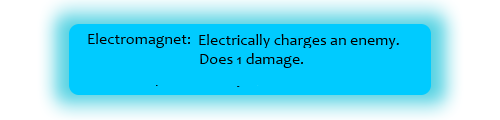
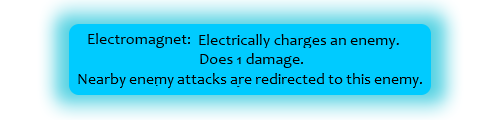
Changed the Boss' tint rule so that she would continue to be blue after being affected by a tint-changing move. Edited the electromagnetism description. Commented out a number of console log messages.

Changed region(s): [[0.15, 0.6, 0.84, 0.725]]

diff --git a/Game/js/local/momGame.js b/Game/js/local/momGame.js
@@ -279,7 +279,7 @@ momGame.prototype = {
       if (game.is_restoring) {
         var prevUses = game.player.spell_1_usage;
         game.player.spell_1_usage++;
-        console.log("Added an extra use to the Z attack (" + prevUses + " -> " + game.player.spell_1_usage + ")");
+        //console.log("Added an extra use to the Z attack (" + prevUses + " -> " + game.player.spell_1_usage + ")");
         game.is_restoring = false;
         pauseGame(false);
         spellRestorePopup.visible = false;
@@ -294,7 +294,7 @@ momGame.prototype = {
       if(game.is_restoring) {
           var prevUses = game.player.spell_3_usage
           game.player.spell_3_usage++;
-          console.log("Added an extra use to the C attack (" + prevUses + " -> " + game.player.spell_3_usage + ")");
+          //console.log("Added an extra use to the C attack (" + prevUses + " -> " + game.player.spell_3_usage + ")");
           game.is_restoring = false;
           pauseGame(false);
           spellRestorePopup.visible = false;
@@ -309,7 +309,7 @@ momGame.prototype = {
       if(game.is_restoring) {
           var prevUses = game.player.spell_2_usage;
           game.player.spell_2_usage++;
-          console.log("Added an extra use to the X attack (" + prevUses + " -> " + game.player.spell_2_usage + ")");
+          //console.log("Added an extra use to the X attack (" + prevUses + " -> " + game.player.spell_2_usage + ")");
           game.is_restoring = false;
           pauseGame(false);
           spellRestorePopup.visible = false;
@@ -322,7 +322,7 @@ momGame.prototype = {
 
     use_orange.onDown.add(function() {
       if(game.is_restoring) {
-        console.log("Canceled spell restore");
+        //console.log("Canceled spell restore");
         game.is_restoring = false;
         pauseGame(false);
         spellRestorePopup.visible = false;
@@ -330,7 +330,7 @@ momGame.prototype = {
       }
       oranges_usable = oranges_count >= 10;
       if(!oranges_usable) {
-        console.log("Not enough oranges (count: " + oranges_count + ")");
+        //console.log("Not enough oranges (count: " + oranges_count + ")");
         //TODO: Show a pop up of some sort
         return;
       }
@@ -428,7 +428,7 @@ momGame.prototype = {
   },
 
   collectHearts: function(player, healthHeart) {
-    console.log("yes yes yes yes!");
+    //console.log("yes yes yes yes!");
     healthHeart.kill();
     game.player.heal();   
   },

diff --git a/Game/js/local/Boss.js b/Game/js/local/Boss.js
@@ -19,6 +19,9 @@ Boss.prototype.constructor = Boss;
 
 _.extend(Boss.prototype, {
   update : function () {
+    if (this.canAttack && !this.backwards) {
+      this.tint = 0x0000ff;
+    }
 
     if (game.is_paused == false) {
       game.physics.arcade.collide(this, game.playerProjectiles, this.damage, null, this);
@@ -195,7 +198,7 @@ _.extend(Boss.prototype, {
         boss.hitPoints--;
       w_damage_anim = (attackObject.direction === "left") ? "DAMAGE_R" : "DAMAGE_L";
       boss.animations.play(w_damage_anim, 8);
-      console.log("losing BOSS health (prev: " + prev + " -> " + boss.hitPoints + ")");
+        //console.log("losing BOSS health (prev: " + prev + " -> " + boss.hitPoints + ")");
       if(impact != null) {
         impact(boss, attackObject);
       }

diff --git a/Game/js/local/Wizard.js b/Game/js/local/Wizard.js
@@ -182,7 +182,7 @@ _.extend(Wizard.prototype, {
         wizard.hitPoints--;
       w_damage_anim = (attackObject.direction === "left") ? "DAMAGE_R" : "DAMAGE_L";
       wizard.animations.play(w_damage_anim, 8);
-      console.log("losing wizard health (prev: " + prev + " -> " + wizard.hitPoints + ")");
+      //console.log("losing wizard health (prev: " + prev + " -> " + wizard.hitPoints + ")");
       if(impact != null) {
         impact(wizard, attackObject);
       }

diff --git a/Game/js/local/Attack.js b/Game/js/local/Attack.js
@@ -219,7 +219,7 @@ Attack.Types = {
 					target.body.onCollide = null;
 					//onCollide triggers on any collision, ground included so for performance reasons set this back to null at the end
 				}
-				console.log("Gravity effect done");
+				//console.log("Gravity effect done");
 			}
 		},
 		type: "GRAVITY"

diff --git a/Game/js/local/Cheats.js b/Game/js/local/Cheats.js
@@ -3,7 +3,7 @@ var cheats = [];
 var cheatText = [];
 
 function cheatMenu() {
-	var baseXPosition = 105;
+	var baseXPosition = 140;
 	var baseYPosition = 85;
 	var yOffset = 40;
 	pauseGame(true);
